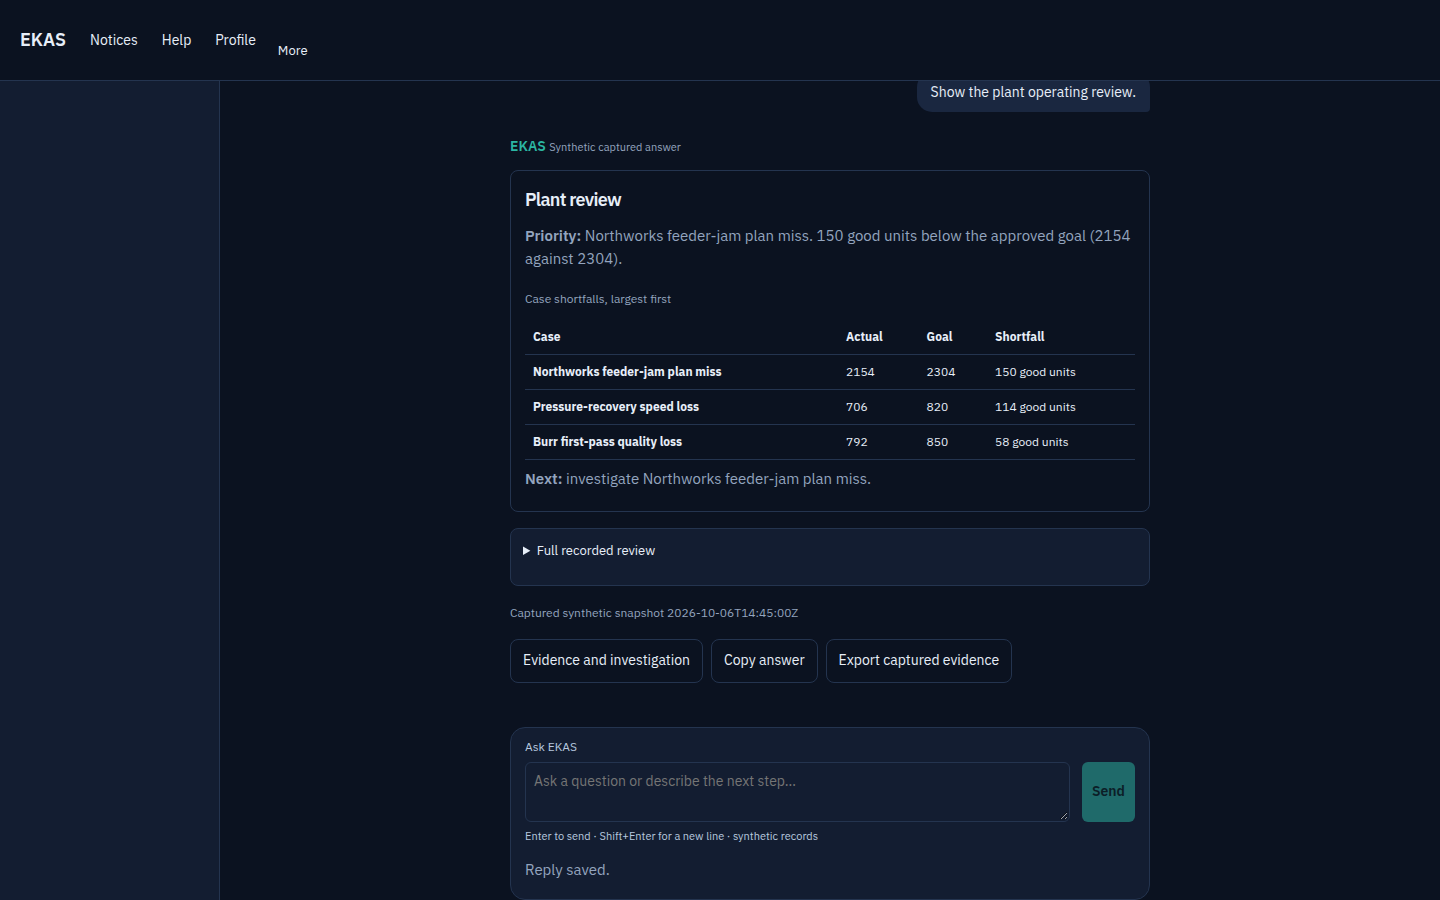
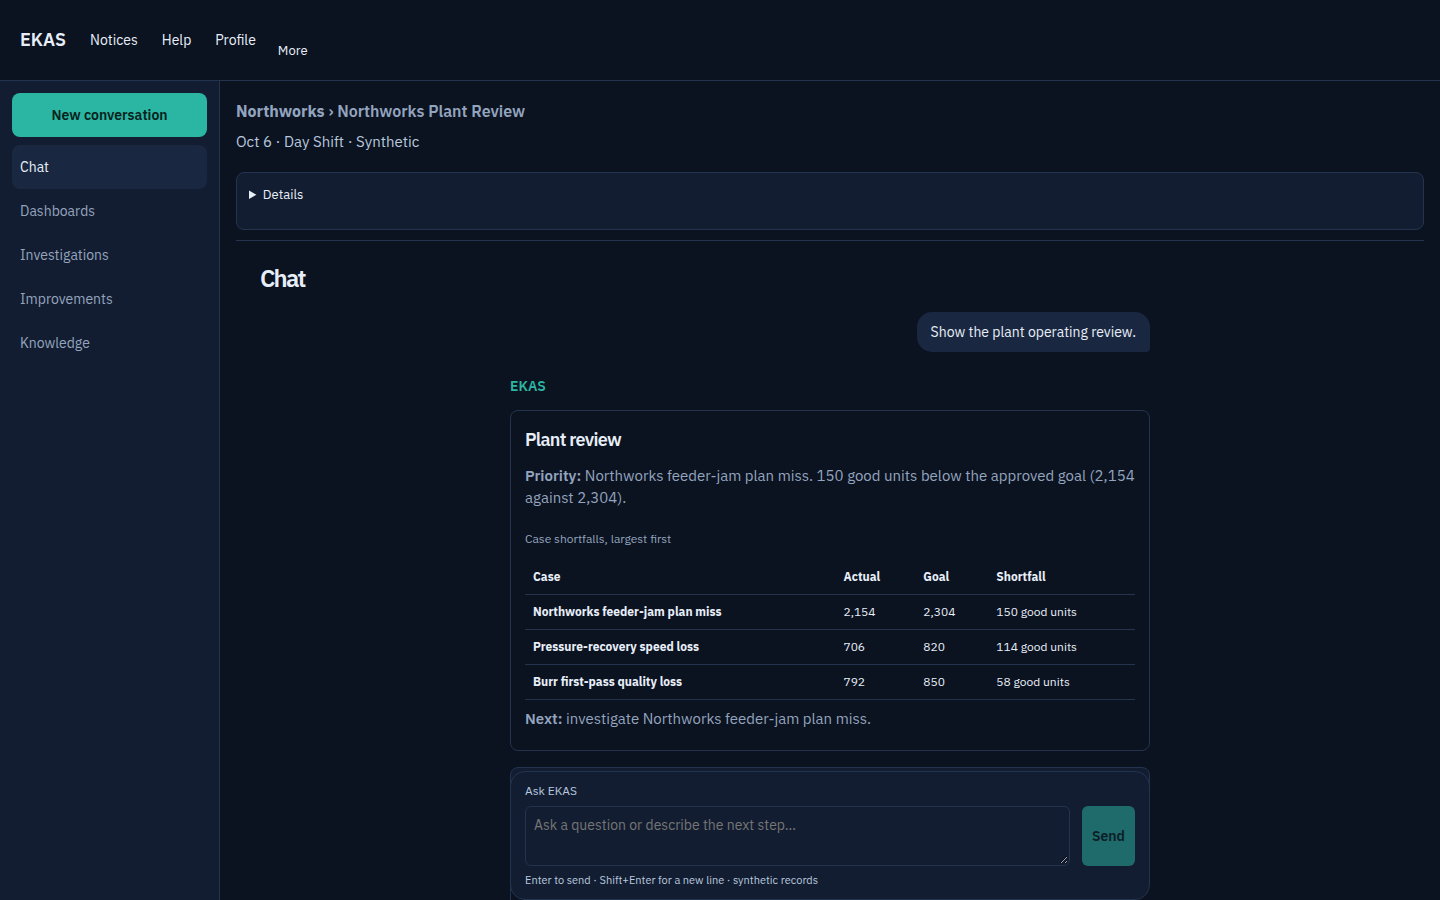
Recapture the shell gate after the executable next step.
The plant shell keeps one scrollport, so the context bar stays under the header while the composer is brought into view.

diff --git a/app/src/retained/retained.css b/app/src/retained/retained.css
@@ -257,8 +257,11 @@ nav[aria-label="Template header navigation"]:empty{display:none}
 /* Plant shell: header, navigation, then the context bar. The header does not cover the context. */
 .retained-plant-shell{height:100dvh;max-height:100dvh;display:flex;flex-direction:column;overflow:hidden}
 .retained-plant-shell .retained-header{position:static;top:auto;flex:none;z-index:30}
-.retained-plant-shell .retained-shell-body{flex:1 1 auto;min-height:0;overflow:hidden}
-.retained-plant-shell .retained-shell-body>main{min-height:0;overflow:auto;padding-top:0}
+.retained-plant-shell .retained-shell-body{flex:1 1 auto;min-height:0;overflow:clip;display:flex;flex-direction:column}
+.retained-plant-shell .retained-shell-body>main{flex:1 1 auto;min-height:0;overflow:auto;padding-top:0}
+@media(min-width:768px){
+ .retained-plant-shell .retained-shell-body{display:grid;grid-template-columns:220px minmax(0,1fr)}
+}
 .retained-plant-shell .ekas-context{position:sticky;top:0;z-index:12;background:#0b1220}
 @media(max-width:767px){
  .retained-plant-shell .retained-header{position:static;top:auto}
